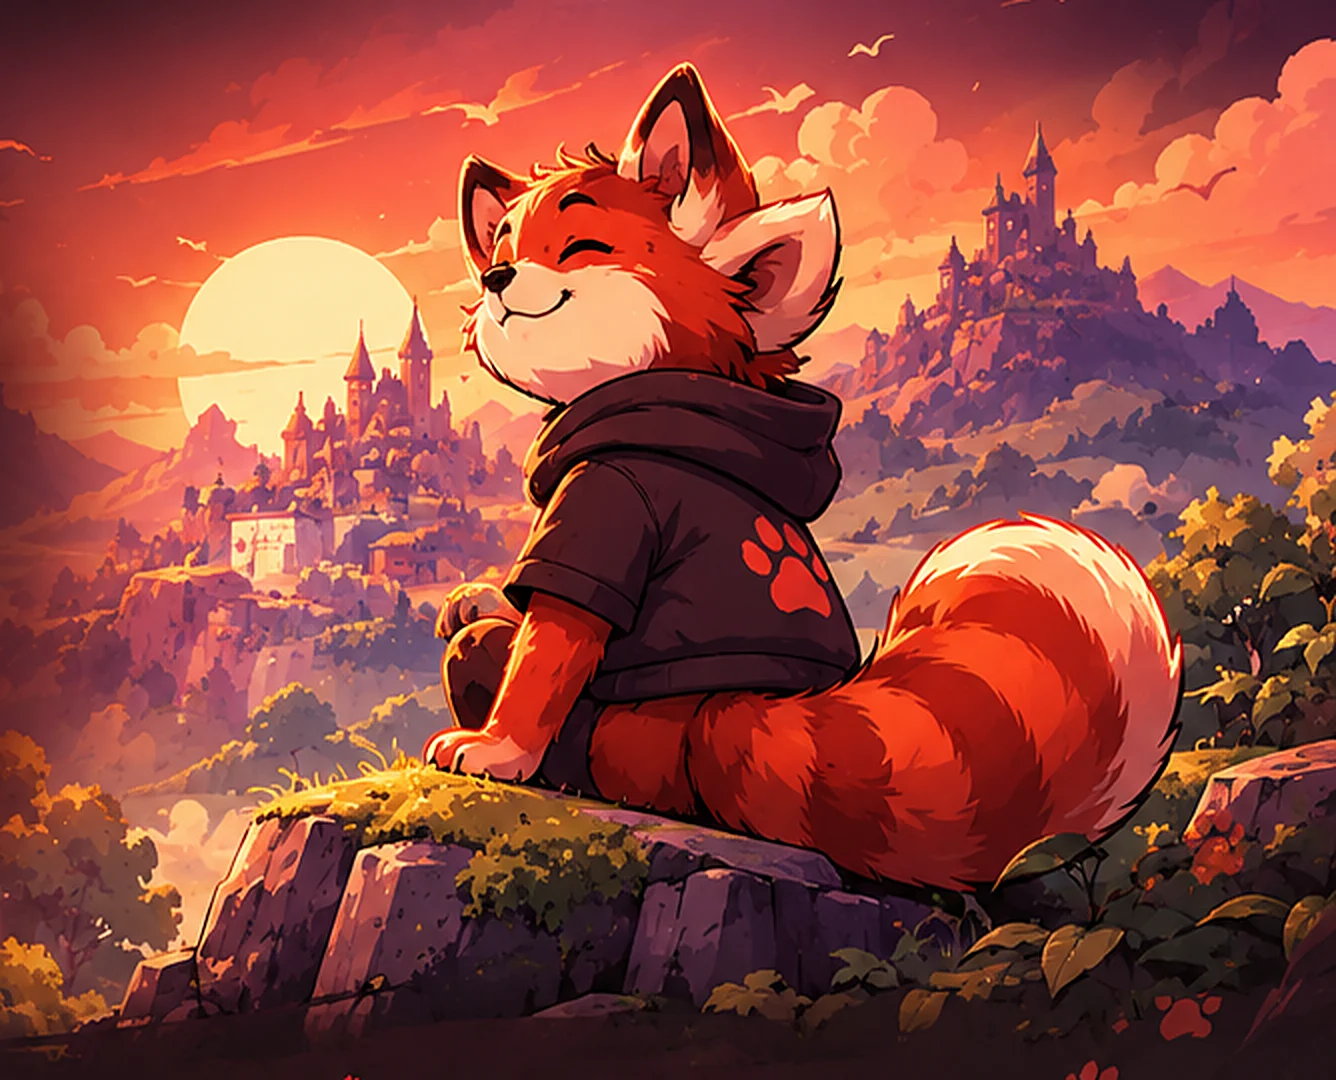
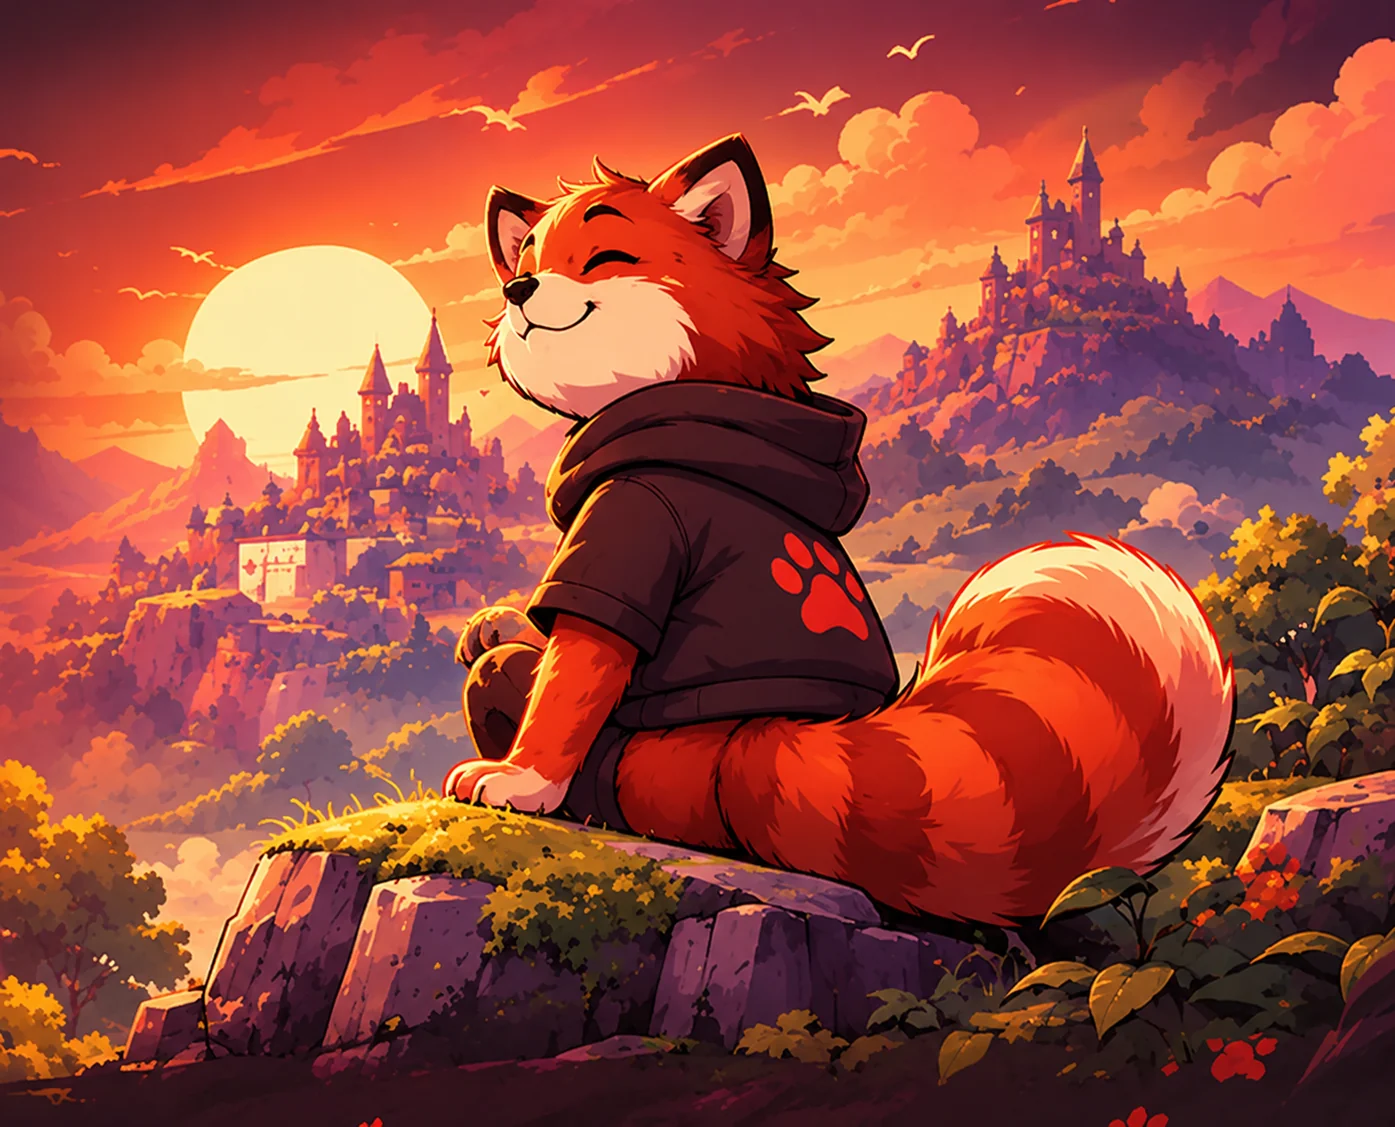
Accueil : illustration corrigée de Rouxy (deux oreilles), en WebP ; image de partage refaite
Le PNG maître va dans ../images_png ; fins de ligne LF.

diff --git a/index.html b/index.html
@@ -24,7 +24,7 @@
   <link rel="preconnect" href="https://fonts.googleapis.com">
   <link rel="preconnect" href="https://fonts.gstatic.com" crossorigin>
   <link href="https://fonts.googleapis.com/css2?family=Baloo+2:wght@600;700;800&family=Montserrat:wght@400;500;600;700&family=Pixelify+Sans:wght@500;600&display=swap" rel="stylesheet">
-  <link rel="preload" as="image" href="assets/img/hero.png">
+  <link rel="preload" as="image" href="assets/img/hero.webp">
   <link rel="stylesheet" href="styles.css">
 </head>
 <body>
@@ -66,7 +66,7 @@
     <!-- 1. Accueil -->
     <section class="hero" id="accueil" data-enter>
       <div class="hero__art" aria-hidden="true">
-        <img src="assets/img/hero.png" alt="" width="1336" height="1080" fetchpriority="high">
+        <img src="assets/img/hero.webp" alt="" width="1395" height="1127" fetchpriority="high">
       </div>
       <div class="wrap hero__in">
         <div class="hero__copy">
